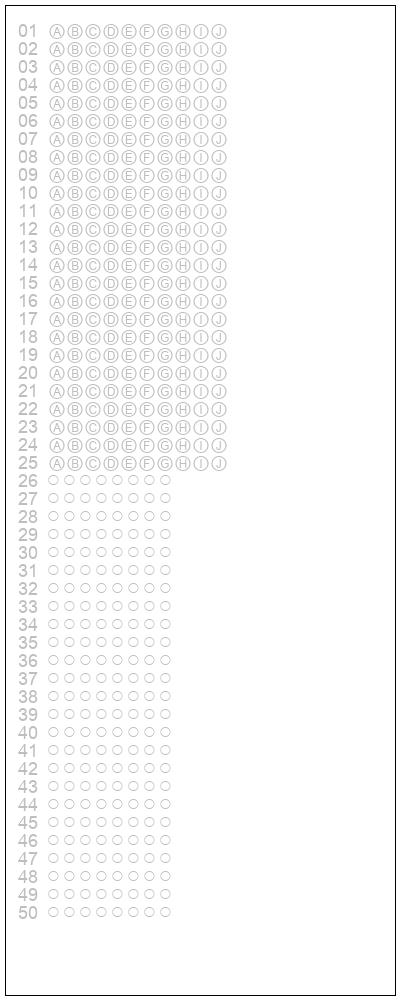
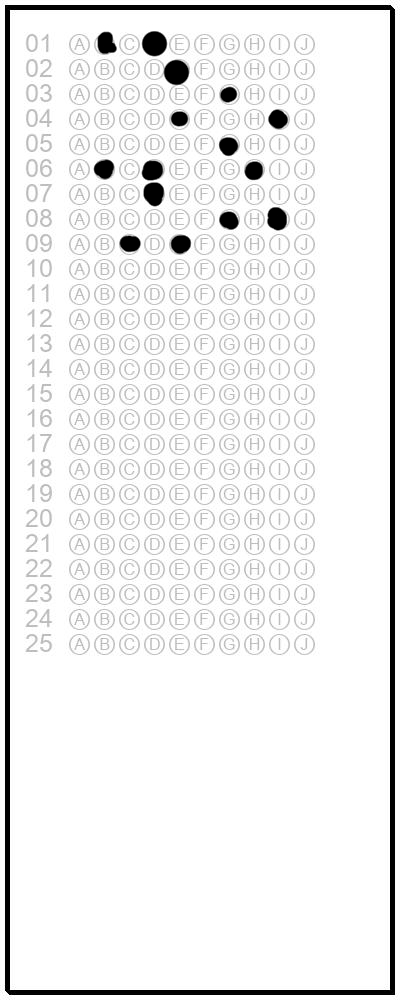
test

Changed region(s): [[0.0, 0.0, 0.99, 1.0]]

diff --git a/model.py b/model.py
@@ -9,7 +9,7 @@ from PIL import Image, ImageDraw, ImageFont
 
 class Model():
 
-    def __init__(self,width=400, height=1000, total_quest=10, font_size=18, font_color=(190,190,190,255)) :
+    def __init__(self,width=400, height=1000, total_quest=10, font_size=25, font_color=(190,190,190,255)) :
         self.count = 0
         self.width = width
         self.height = height
@@ -53,9 +53,12 @@ class Model():
         self.canvas.save( "test.jpg" )
 
 
-    def border(self,offset=5):
+    def border(self,offset=5, width=5):
         draw = ImageDraw.Draw( self.canvas )
-        draw.rectangle([offset,offset,self.width-offset,self.height-offset],outline=(0,0,0))
+        cor = (offset,offset, self.width-offset-width,self.height-offset-width)
+        for i in range(width):
+            draw.rectangle(cor ,outline=(0,0,0))   
+            cor = (cor[0]+1,cor[1]+1, cor[2]+1,cor[3]+1) 
         # self.canvas.save( "test.png", "PNG" )
         self.canvas.save( "test.jpg" )
         
@@ -65,7 +68,7 @@ class Model():
 
 model = Model()
 model.question(25,10,type='EN')
-model.question(25,8,type='TEST')
+# model.question(25,8,type='TEST')
 # model.question(20,20)
 # model.question(20,12,type='NUM')
 # model.question(2,2,type='ENL')

diff --git a/check.py b/check.py
@@ -29,7 +29,7 @@ def auto_canny(image, sigma=0.33):
 
 ### Picture Preprocess
 # Read Picture 
-image = cv2.imread('content.jpg')
+image = cv2.imread('test.jpg')
 # display(image)
 
 display(image)
@@ -115,7 +115,7 @@ Answer = [(0,0)]
 for c in cnts :
     (x,y,w,h) = cv2.boundingRect(c)
     print(x,y,w,h)
-    if x>30 and x<250 and y>15 and y<500:
+    if x>30 and x<300 and y>15 and y<500:
         M = cv2.moments(c)
         print(M)
         cX = int(M["m10"] / M["m00"])
